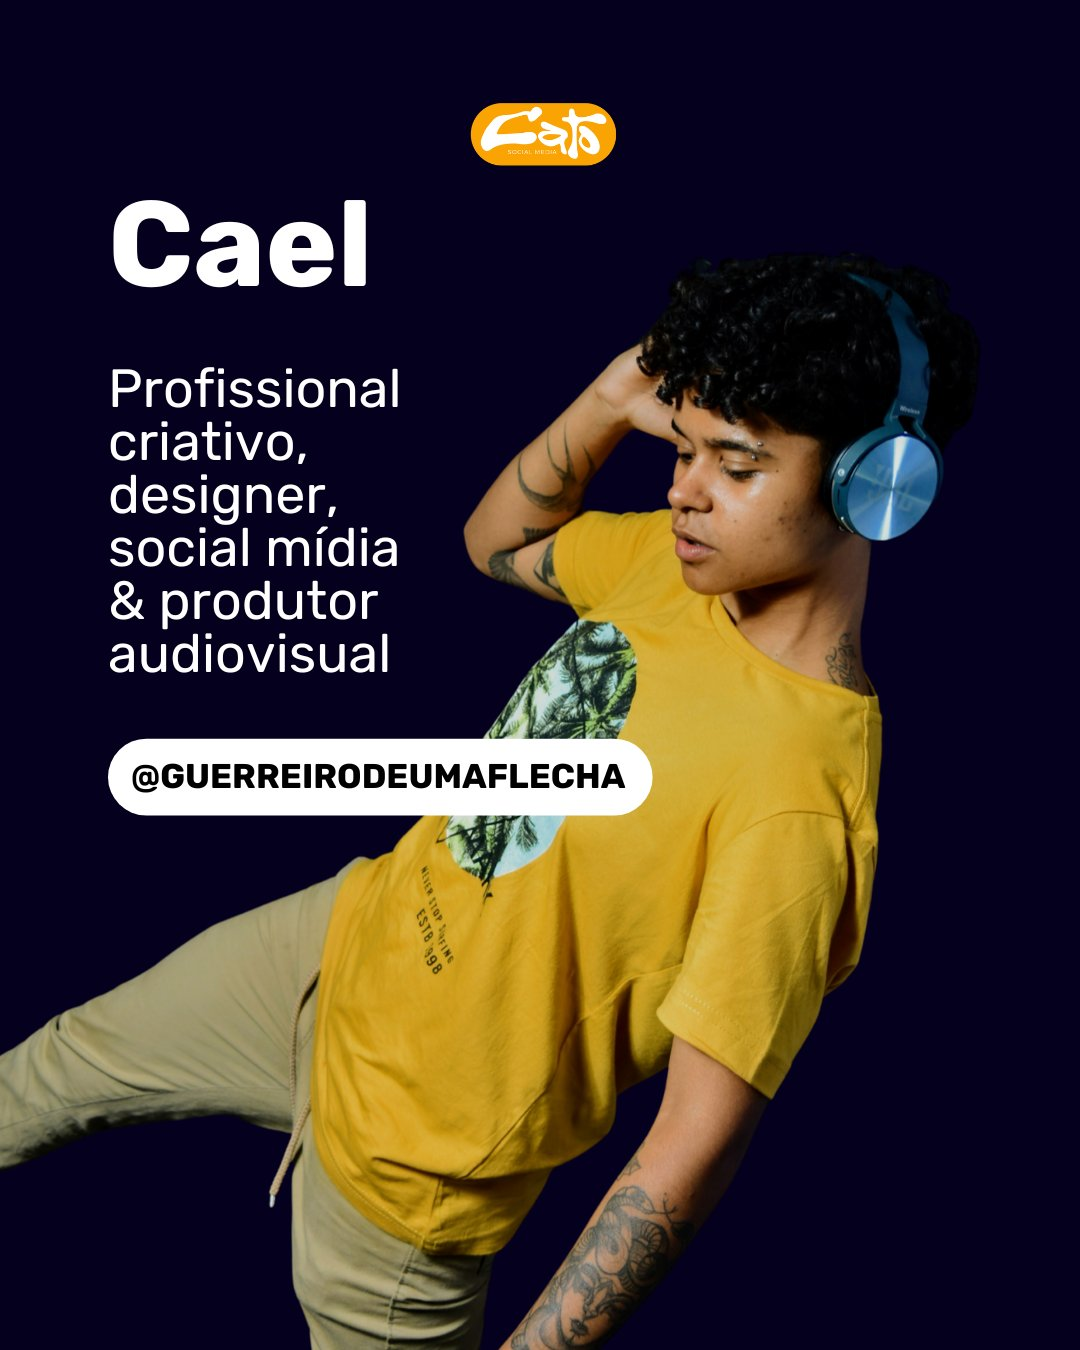
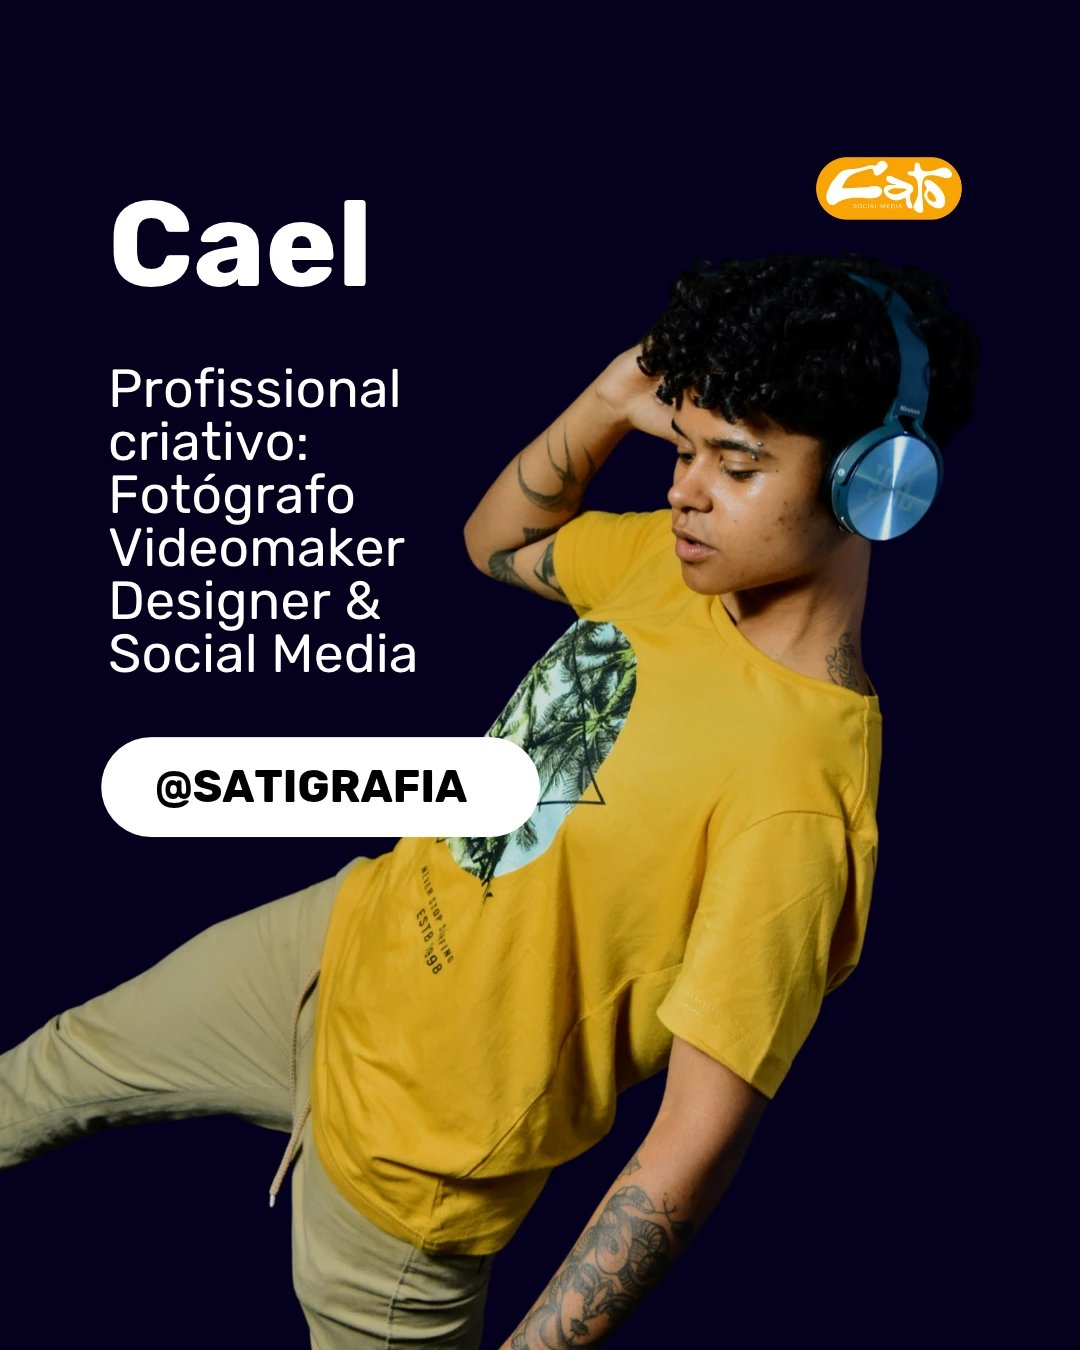
Substitui as fotos dos cofundadores pelas novas artes
- assets/fundadora-victoria.jpg e assets/fundador-cael.jpg trocadas pelas
  artes novas (mesmo nome, 1080x1350, JPG qualidade 85); proporção 4:5 e
  posição no topo da Home não mudam
- alt e legenda para leitores de tela atualizados com o texto das artes:
  @dicarlo_photograph (Tori) e "fotógrafo, videomaker, designer e social
  media · @satigrafia" (Cael)

Claude-Session: https://claude.ai/code/session_01EMkanH1gSgjcHKLUsQAM9G

diff --git a/index.html b/index.html
@@ -87,15 +87,15 @@ var e=document.querySelectorAll('.rv,[data-tl]');for(var i=0;i<e.length;i++)e[i]
       </svg>
       <figure class="rv d1 mt-10">
         <a href="https://www.instagram.com/dicarlophotograph_?plx=aXBmbjdlYzNxbGFp" class="group relative block aspect-[4/5] overflow-hidden rounded-[28px] bg-quase shadow-[10px_10px_0_#FCA001] transition duration-300 hover:-translate-y-1 hover:shadow-[10px_14px_0_#B70223]" aria-label="Victoria de Carlos no Instagram, @dicarlophotograph_">
-          <img src="assets/fundadora-victoria.jpg" width="1080" height="1350" decoding="async" alt="Victoria de Carlos, cofundadora da Cato Mídias: creator mobile, fotógrafa, designer, produtora criativa e audiovisual. Instagram @_toridicarlo" class="absolute inset-0 h-full w-full object-cover transition duration-700 group-hover:scale-[1.03]">
+          <img src="assets/fundadora-victoria.jpg" width="1080" height="1350" decoding="async" alt="Victoria de Carlos, cofundadora da Cato Mídias: creator mobile, fotógrafa, designer, produtora criativa e audiovisual. Instagram @dicarlo_photograph" class="absolute inset-0 h-full w-full object-cover transition duration-700 group-hover:scale-[1.03]">
         </a>
         <figcaption class="sr-only">Victoria de Carlos: creator mobile, fotógrafa, designer, produtora criativa e audiovisual</figcaption>
       </figure>
       <figure class="rv d2">
         <a href="https://www.instagram.com/satigrafia?fqnt=MXhtNHI2dVwZTJ0MQ==" class="group relative block aspect-[4/5] overflow-hidden rounded-[28px] bg-quase shadow-[10px_10px_0_#FCA001] transition duration-300 hover:-translate-y-1 hover:shadow-[10px_14px_0_#B70223]" aria-label="Cael no Instagram, @satigrafia">
-          <img src="assets/fundador-cael.jpg" width="1080" height="1350" decoding="async" alt="Cael, cofundador da Cato Mídias: profissional criativo, designer, social mídia e produtor audiovisual. Instagram @guerreirodeumaflecha" class="absolute inset-0 h-full w-full object-cover transition duration-700 group-hover:scale-[1.03]">
+          <img src="assets/fundador-cael.jpg" width="1080" height="1350" decoding="async" alt="Cael, cofundador da Cato Mídias: profissional criativo, fotógrafo, videomaker, designer e social media. Instagram @satigrafia" class="absolute inset-0 h-full w-full object-cover transition duration-700 group-hover:scale-[1.03]">
         </a>
-        <figcaption class="sr-only">Cael: profissional criativo, designer, social mídia e produtor audiovisual</figcaption>
+        <figcaption class="sr-only">Cael: profissional criativo, fotógrafo, videomaker, designer e social media</figcaption>
       </figure>
     </div>
   </div>
